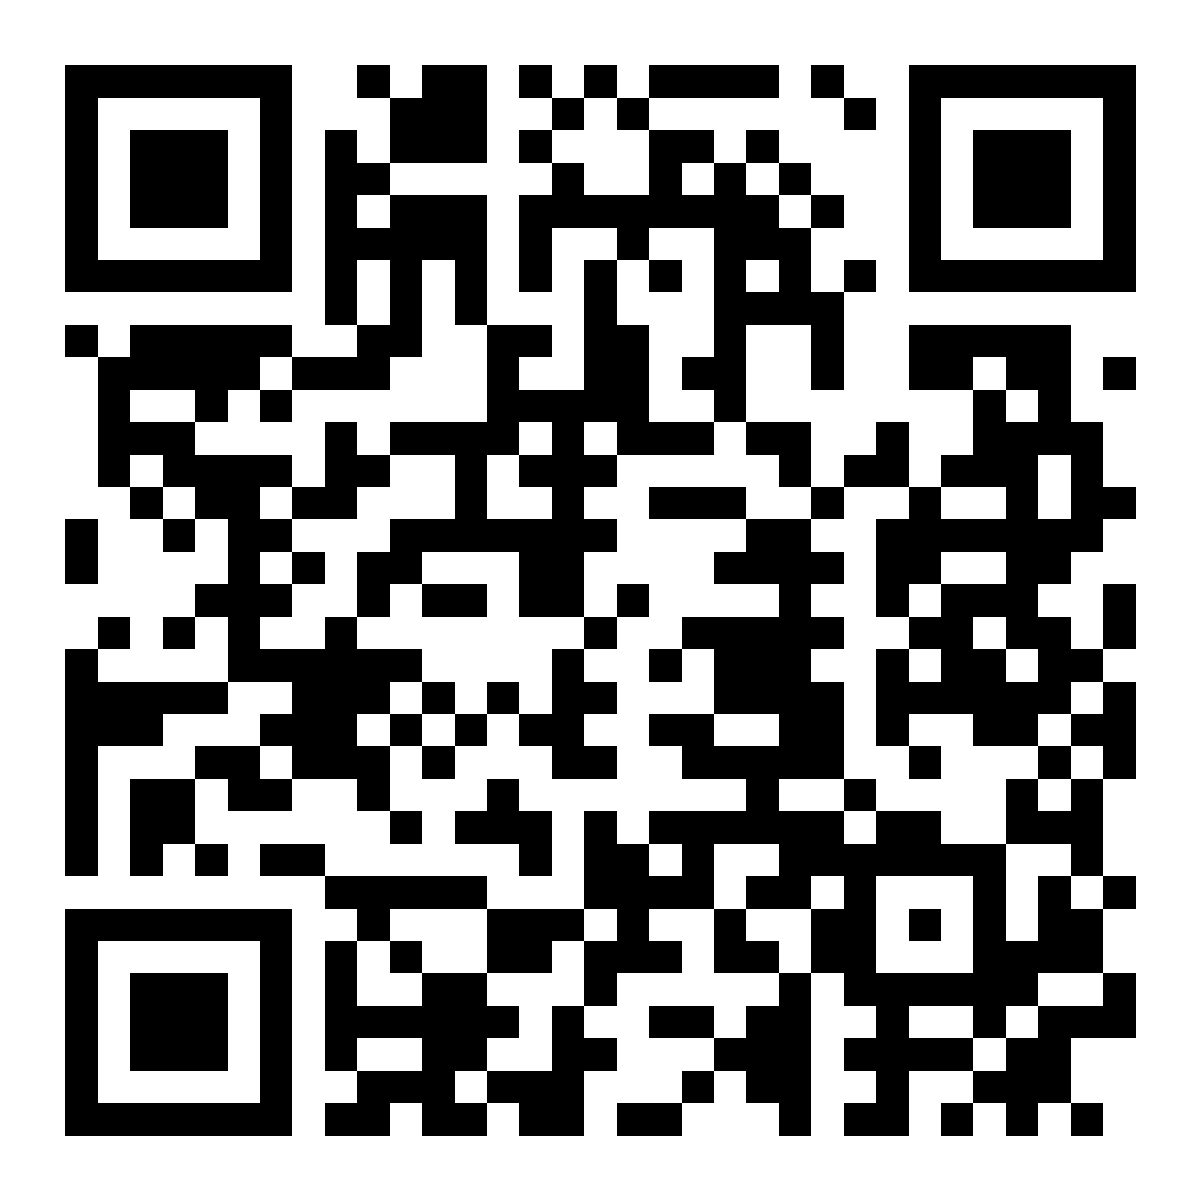
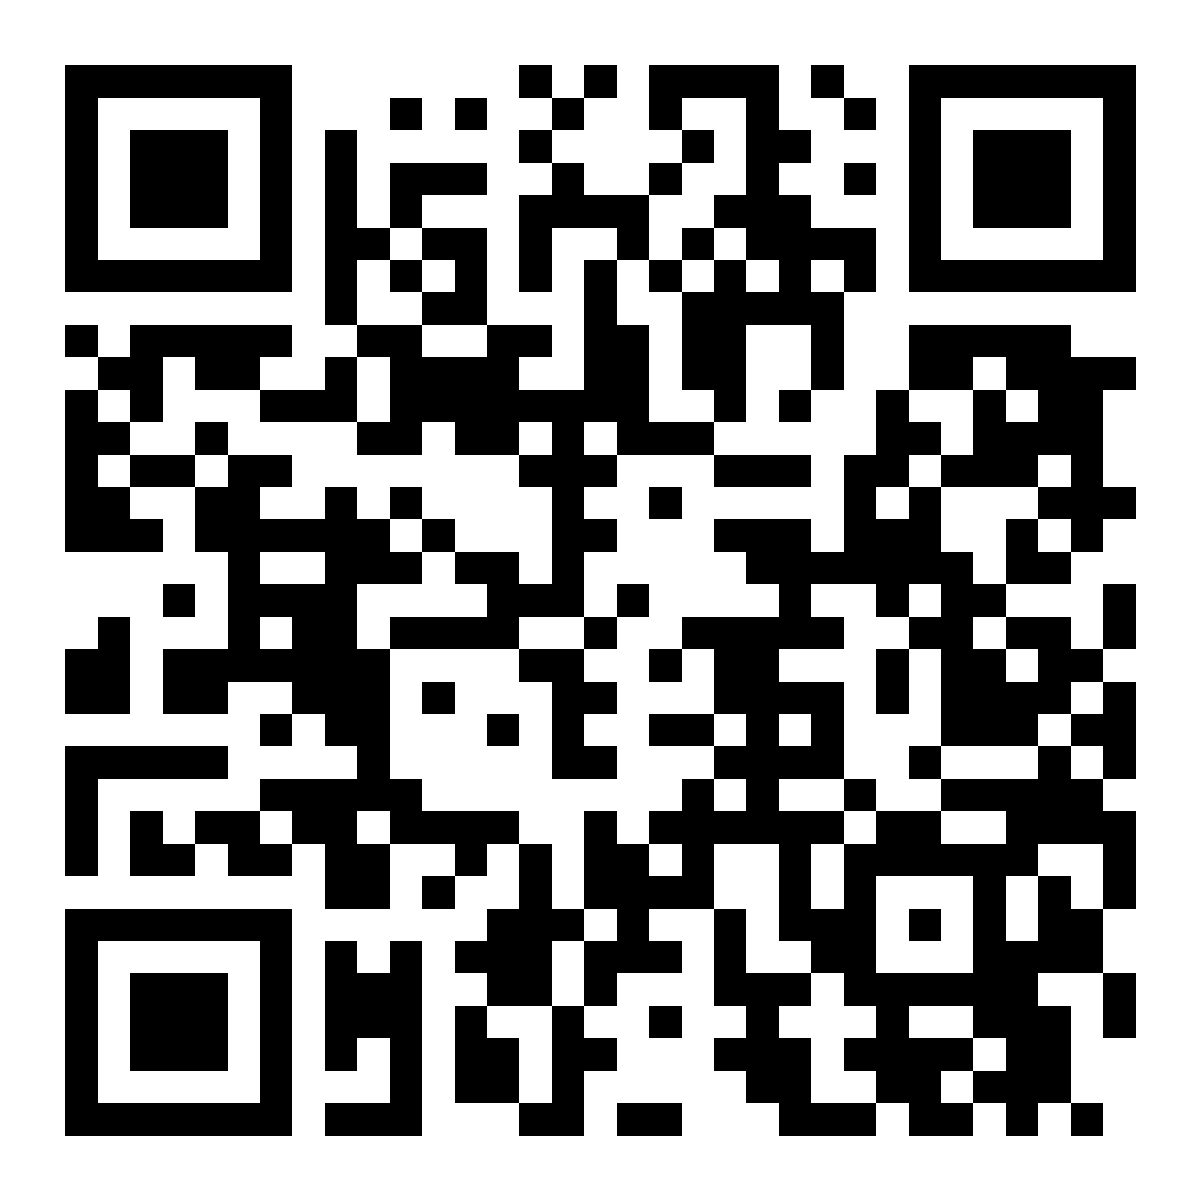
Version 1.0.0 : nouvelle adresse, les comptes suivent seuls
Le jeu répond sur croute-que-croute.tartinesauvage.fr et l'ancienne adresse reste en ligne. Dans un navigateur, l'ancienne adresse renvoie vers la nouvelle avec un code de liaison, les succès et les réglages. Une appli installée propose de copier le lien. QR codes régénérés.

diff --git a/public/js/app/account.js b/public/js/app/account.js
@@ -1,10 +1,12 @@
 import { clock } from "../shared/format.js";
+import { session, KEYS } from "../shared/store.js";
 import { ui, show, setText, markInvalid, renderControls, setLinking } from "./screens.js";
-import { net, on, registered, joinReady, refreshBoard, serverNow, linkWith, newLinkCode, logoutOthers, openGoogle, unlinkGoogle, reason, badInput } from "./api.js";
+import { net, on, hasPending, registered, joinReady, refreshBoard, serverNow, linkWith, newLinkCode, logoutOthers, openGoogle, unlinkGoogle, reason, badInput } from "./api.js";
 import { renderSettings, copy } from "./settings.js";
 import { resync } from "./profile.js";
 import { inAppNote } from "./inapp.js";
-import { googleBlocked } from "./install.js";
+import { googleBlocked, installMode } from "./install.js";
+import { moved, moveUrl } from "./move.js";
 
 const TICK_MS = 1000, RETRY_MS = 20000, QUIET = 4;
 /** @type {Record<string, string>} */
@@ -14,7 +16,10 @@ const GOOGLE_NOTES = {
   inconnu: "Aucun joueur n'est lié à ce compte Google. Utilise ton code, ou crée un pseudo.",
   erreur: "La connexion Google a échoué. Réessaie."
 };
+const MOVE_NOTE = "Le jeu change d'adresse. Copie le lien, ouvre-le dans ton navigateur, puis réinstalle le jeu : ton compte te suit.";
+const MOVE_CODE_MS = 9 * 60 * 1000;
 const OUT_ASK = "Tes autres appareils sortent du compte. Pour revenir, il leur faudra un nouveau code.";
+let leaving = false;
 /** @type {Timer} */
 let timer = null, until = Infinity, live = false, asked = 0, shown = "", /** @type {string | null} */ merging = null, /** @type {string | null} */ mergeInto = null, flow = 0, /** @type {string | null} */ waiting = null, /** @type {string | null} */ googleResult = null, opener = () => {}, idle = () => true;
 
@@ -307,6 +312,30 @@ function pickUp() {
   }
 }
 
+async function arrive() {
+  const code = session.get(KEYS.arrival);
+  if (!code || !net.board || !joinReady()) return;
+  session.set(KEYS.arrival, null);
+  try {
+    await linkWith(code);
+  } catch (e) {
+    waiting = code;
+    pickUp();
+  }
+}
+
+async function leave() {
+  if (leaving || !moved() || installMode() === "installed" || !net.board || !idle() || hasPending()) return;
+  if (!net.token && !joinReady()) return;
+  leaving = true;
+  const code = net.token ? await newLinkCode().then((r) => r.code, () => null) : null;
+  if (net.token && !code) {
+    leaving = false;
+    return;
+  }
+  location.replace(moveUrl(code));
+}
+
 function linkFromUrl() {
   const m = location.hash.match(/^#lier=([A-Za-z0-9-]{1,12})$/);
   if (!m) return;
@@ -345,6 +374,8 @@ ui.outBtn.addEventListener("click", () => {
 ui.outNo.addEventListener("click", () => askOut(false));
 ui.outYes.addEventListener("click", confirmOut);
 on("board", pickUp);
+on("board", arrive);
+on("board", leave);
 on("board", renderGoogle);
 on("board", showGoogleResult);
 ui.googleLogin.addEventListener("click", () => goGoogle(ui.googleLogin, false));
@@ -367,4 +398,20 @@ ui.linkForm.addEventListener("submit", /** @param {Event} e */ (e) => {
   e.preventDefault();
   connect(ui.linkInput.value);
 });
+if (moved() && installMode() === "installed") {
+  let link = moveUrl(null), asked = false;
+  const prepare = () => {
+    if (net.token) newLinkCode().then((r) => { link = moveUrl(r.code); }).catch(() => {});
+  };
+  on("board", () => {
+    if (asked) return;
+    asked = true;
+    prepare();
+  });
+  setInterval(prepare, MOVE_CODE_MS);
+  ui.inAppText.textContent = MOVE_NOTE;
+  ui.inApp.hidden = false;
+  ui.inAppCopy.addEventListener("click", () => copy(ui.inAppCopy, link, "Lien copié"));
+}
+
 window.addEventListener("hashchange", linkFromUrl);

diff --git a/public/sw.js b/public/sw.js
@@ -2,9 +2,9 @@ const CACHE = "croute-" + (new URL(self.location.href).searchParams.get("v") || 
 const SHELL = [
   "/", "/tokens.css", "/style.css", "/catalog.css", "/manifest.webmanifest", "/icons/icon-192.png", "/qr.svg",
   "/ecran", "/ecran.css", "/js/ecran/ecran.js",
-  "/js/version.js", "/js/errors.js", "/js/boot.js", "/js/shared/store.js", "/js/shared/format.js", "/js/shared/palette.js", "/js/shared/local.js", "/js/shared/timeout.js", "/js/shared/banner.js",
+  "/js/version.js", "/js/errors.js", "/js/arrive.js", "/js/boot.js", "/js/shared/store.js", "/js/shared/format.js", "/js/shared/palette.js", "/js/shared/local.js", "/js/shared/timeout.js", "/js/shared/banner.js",
   "/js/game/field.js", "/js/game/projectiles.js", "/js/game/attacks.js", "/js/game/solver.js", "/js/game/sim.js",
-  "/js/app/api.js", "/js/app/audio.js", "/js/app/catalog.js", "/js/app/input.js", "/js/app/sprites.js", "/js/app/scene.js", "/js/app/planets.js", "/js/app/screens.js", "/js/app/inapp.js", "/js/app/install.js", "/js/app/settings.js", "/js/app/party.js", "/js/app/achievements.js", "/js/app/toppings.js", "/js/app/gear.js", "/js/app/profile.js", "/js/app/account.js", "/js/app/guide.js", "/js/app/diag.js", "/js/app/loader.js", "/js/app/state.js", "/js/app/over.js", "/js/app/run.js", "/js/app/pages.js", "/js/app/main.js",
+  "/js/app/api.js", "/js/app/audio.js", "/js/app/catalog.js", "/js/app/input.js", "/js/app/sprites.js", "/js/app/scene.js", "/js/app/planets.js", "/js/app/screens.js", "/js/app/inapp.js", "/js/app/move.js", "/js/app/install.js", "/js/app/settings.js", "/js/app/party.js", "/js/app/achievements.js", "/js/app/toppings.js", "/js/app/gear.js", "/js/app/profile.js", "/js/app/account.js", "/js/app/guide.js", "/js/app/diag.js", "/js/app/loader.js", "/js/app/state.js", "/js/app/over.js", "/js/app/run.js", "/js/app/pages.js", "/js/app/main.js",
   "/js/app/art/auras.js", "/js/app/art/breads.js", "/js/app/art/cutlery.js", "/js/app/art/hats.js", "/js/app/art/kit.js", "/js/app/art/sides.js", "/js/app/art/spreads.js",
   "/js/app/sky/cans.js", "/js/app/sky/cheese.js", "/js/app/sky/classic.js", "/js/app/sky/egg.js", "/js/app/sky/kit.js", "/js/app/sky/melies.js", "/js/app/sky/music.js", "/js/app/sky/pancake.js", "/js/app/sky/pirate.js", "/js/app/sky/pumpkin.js", "/js/app/sky/santa.js", "/js/app/sky/toaster.js", "/js/app/sky/tung.js", "/js/app/sky/vehicles.js"
 ];

diff --git a/public/js/app/move.js b/public/js/app/move.js
@@ -1,0 +1,20 @@
+import { store, KEYS } from "../shared/store.js";
+
+export const OLD_HOST = "croute-que-croute.tartine-sauvage.workers.dev";
+export const HOME = "https://croute-que-croute.tartinesauvage.fr";
+
+/** @type {(keyof typeof KEYS)[]} */
+const KEPT = ["localBest", "myBests", "musicOff", "sfxOff", "musicVolume", "sfxVolume", "installAsked", "achievements", "toppings", "topping", "outfitSeen", "outfitAt", "gear", "side", "bread", "aura", "quality", "sensitivity", "mouseAim"];
+
+export const moved = () => location.hostname === OLD_HOST;
+
+/** @param {string | null} code */
+export function moveUrl(code) {
+  /** @type {Record<string, string>} */
+  const data = {};
+  for (const name of KEPT) {
+    const value = store.get(KEYS[name]);
+    if (value !== null) data[KEYS[name]] = value;
+  }
+  return `${HOME}/#demenage=${encodeURIComponent(JSON.stringify({ code, data }))}`;
+}

diff --git a/public/index.html b/public/index.html
@@ -6,6 +6,7 @@
 <meta name="theme-color" content="#0d0b24">
 <title>Croûte que Croûte</title>
 <script src="/js/errors.js"></script>
+<script src="/js/arrive.js"></script>
 <link rel="manifest" href="/manifest.webmanifest">
 <link rel="icon" href="/icons/icon.svg" type="image/svg+xml">
 <link rel="apple-touch-icon" href="/icons/apple-touch-icon.png">
@@ -46,6 +47,7 @@
 <link rel="modulepreload" href="/js/app/install.js">
 <link rel="modulepreload" href="/js/app/profile.js">
 <link rel="modulepreload" href="/js/app/account.js">
+<link rel="modulepreload" href="/js/app/move.js">
 <link rel="modulepreload" href="/js/app/loader.js">
 <link rel="modulepreload" href="/js/app/screens.js">
 <link rel="modulepreload" href="/js/game/attacks.js">

diff --git a/public/js/arrive.js b/public/js/arrive.js
@@ -1,0 +1,13 @@
+(() => {
+  const found = location.hash.match(/^#demenage=(.+)$/);
+  if (!found) return;
+  history.replaceState(null, "", location.pathname + location.search);
+  try {
+    if (localStorage.getItem("cv-token")) return;
+    const { code, data } = JSON.parse(decodeURIComponent(found[1]));
+    for (const key of Object.keys(data || {})) {
+      if (/^cv-[a-z-]+$/.test(key) && key !== "cv-token" && key !== "cv-client") localStorage.setItem(key, String(data[key]));
+    }
+    if (/^[A-Za-z0-9-]{1,12}$/.test(code || "")) sessionStorage.setItem("cv-arrivee", code);
+  } catch (e) {}
+})();

diff --git a/public/js/shared/store.js b/public/js/shared/store.js
@@ -24,7 +24,8 @@ export const KEYS = {
   sensitivity: "cv-sensibilite",
   mouseAim: "cv-souris",
   invincible: "cv-invincible",
-  diag: "cv-diag"
+  diag: "cv-diag",
+  arrival: "cv-arrivee"
 };
 
 /** @param {() => Storage} storage @returns {Store} */

diff --git a/public/js/app/api.js b/public/js/app/api.js
@@ -218,6 +218,8 @@ export function startRun(body) {
   });
 }
 
+export const hasPending = () => pendingScores().length > 0;
+
 /** @returns {Pending[]} */
 function pendingScores() {
   try {

diff --git a/README.md b/README.md
@@ -10,7 +10,8 @@ Source unique de connaissance du projet. Si le README et le code se contredisent
 
 ## Liens
 
-- Jeu : https://croute-que-croute.tartine-sauvage.workers.dev
+- Jeu : https://croute-que-croute.tartinesauvage.fr
+- Ancienne adresse, encore en ligne pour les applis installées : https://croute-que-croute.tartine-sauvage.workers.dev
 - Admin : `/admin`
 - Écran géant : `/ecran`, sur l'ordinateur branché à l'écran
 - Code : https://github.com/Affy657/croute-que-croute
@@ -323,6 +324,16 @@ Le robot d'équité dit si le jeu est faisable, pas s'il est bien dosé. Pour le
 - « Ce pseudo est déjà pris » renvoie vers « J'ai déjà un compte », et l'écran du code dit où le trouver.
 - Plus d'accès à l'ancien compte : l'admin réunit les deux.
 
+### Changement d'adresse
+
+Le stockage d'un navigateur et le cookie `cv_cle` sont liés à l'adresse. Pour passer de `croute-que-croute.tartine-sauvage.workers.dev` à `croute-que-croute.tartinesauvage.fr`, le compte fait le trajet tout seul (`move.js`, `arrive.js`).
+
+- Le même Worker répond sur les deux adresses (`workers_dev: true` et `routes` dans `wrangler.jsonc`). Sans `workers_dev`, l'ancienne s'éteindrait au déploiement.
+- Dans un navigateur, l'ancienne adresse crée un code de liaison et renvoie vers la nouvelle avec `#demenage=` : le code, les succès, la tenue et les réglages (`KEPT`), jamais la clé. Pas pendant une partie, pas avec un score en attente. Joueur connecté sans code : il reste, nouvel essai au classement suivant.
+- `arrive.js`, chargé avant le jeu, pose ces valeurs et efface l'adresse. Le téléphone se connecte seul avec le code, sans toucher « Connecter », et garde aussi sa session sur l'ancienne adresse. Un appareil déjà connecté ignore tout.
+- Une appli installée reste sur l'ancienne adresse et continue de marcher : elle ne peut pas changer d'adresse. L'accueil propose « Copier le lien » vers la nouvelle, avec un code renouvelé toutes les 9 min, puis il faut réinstaller.
+- `/ecran` et `/admin` ne suivent pas : les ouvrir sur la nouvelle adresse. Admin : `cle-admin.txt` la première fois.
+
 ### Connexion avec Google
 
 Désactivée en prod tant qu'on n'a pas le nom de domaine : sans les clés, les 3 routes répondent 404, les boutons restent cachés et un `#google=` tapé à la main est ignoré. La migration 0014 est appliquée, sa colonne et sa table restent vides.
@@ -332,7 +343,7 @@ Pour retrouver son compte sur un nouvel appareil sans code. Lier ou délier : Pa
 - Le serveur parle à Google lui-même (`src/routes/google.ts`) : `POST /api/google/start` note la demande dans `google_states` (10 min, un seul usage) et pose le cookie `cv_google`, puis Google renvoie sur `GET /api/google/retour`, qui compare le cookie, échange le code et revient sur `/#google=<résultat>`. Aucun script Google dans la page, la politique de sécurité ne change pas.
 - On demande `openid email`, parce que la documentation de Google l'exige, mais on ne garde que `sha256("google:" + sub)` dans `profiles.google_hash`. L'adresse e-mail n'est jamais enregistrée. La page `/confidentialite`, liée depuis Crédits, ne parle pas de Google tant que la connexion est coupée.
 - Bouton caché sans clés, dans les navigateurs d'applis (Google y refuse la connexion) et dans l'appli iPhone de l'écran d'accueil (la page de Google s'y ouvre dans un autre stockage : à vérifier sur un vrai iPhone avant de l'ouvrir).
-- Mise en route, à faire par Adrien : projet Google Cloud, écran de consentement « Externe » avec la page `/confidentialite`, identifiant OAuth « Application Web » avec comme URI de redirection `https://<adresse du jeu>/api/google/retour`, puis `npx wrangler secret put GOOGLE_CLIENT_ID` et `npx wrangler secret put GOOGLE_CLIENT_SECRET`. Migration 0014 à appliquer en ligne avant la mise en ligne. Google vérifie le domaine de l'adresse : `workers.dev` risque de bloquer, à faire de préférence avec tartinesauvage.fr.
+- Mise en route, à faire par Adrien : projet Google Cloud, écran de consentement « Externe » avec la page `/confidentialite`, identifiant OAuth « Application Web » avec comme URI de redirection `https://<adresse du jeu>/api/google/retour`, puis `npx wrangler secret put GOOGLE_CLIENT_ID` et `npx wrangler secret put GOOGLE_CLIENT_SECRET`. Migration 0014 à appliquer en ligne avant la mise en ligne. Google vérifie le domaine de l'adresse : À faire avec tartinesauvage.fr.
 - Pour l'activer : poser les clés, puis remettre dans `public/confidentialite.html` la section « Compte Google, si tu le lies » (texte dans le commit 99e2cb2).
 - Jamais essayée avec le vrai Google : les tests remplacent sa réponse.
 
@@ -369,7 +380,7 @@ Pour retrouver son compte sur un nouvel appareil sans code. Lier ou délier : Pa
 - Hauteur des planètes non arrondie : au pixel près, elles restaient immobiles puis sautaient.
 - Chrono réécrit au plus toutes les 30 ms (`DIGITS_MS` dans `run.js`) : chaque réécriture recalcule la page. Mesuré : de 99 à 50 ms par tranche de 5 s sur PC.
 - Calques vides masqués (`fx`, `party`) : sinon deux calques plein écran à assembler à chaque image.
-- `modulepreload` des 58 modules dans `index.html` : prêt en 3,9 s au lieu de 4,6 s avec 300 ms de latence.
+- `modulepreload` des 59 modules dans `index.html` : prêt en 3,9 s au lieu de 4,6 s avec 300 ms de latence.
 - iPhone d'avant iOS 15.4 : `Object.hasOwn`, appelé à chaque image, empêchait tout dessin. Remplacé, interdit par `shell.test.mjs`.
 - Essayés et pas gardés : tartine ou couverts en image, étoiles par paquets, chrono en `contain`, Rust (WebAssembly) : le dessin se fait dans le navigateur, et une vérification d'attaque prend 0,05 ms.
 
@@ -435,6 +446,7 @@ Pour retrouver son compte sur un nouvel appareil sans code. Lier ou délier : Pa
 | 0.47 | 01/11 | tenue qui suit le compte, rechargement si versions mélangées | 4 |
 | 0.48 | 02/11 | pluies espacées après une double pluie ou un hachoir | |
 | 0.49 | 03/11 | écran géant en direct, fin de soirée stricte, mur mis de côté | 8 |
+| 1.0 | 06/11 | sortie de bêta, adresse tartinesauvage.fr, comptes qui suivent seuls | |
 
 ## Erreurs des joueurs
 
@@ -559,6 +571,7 @@ Seulement en local (`shared/local.js`), téléphone sur le wifi compris.
 - `google` : empreinte sans e-mail, cookie, usage unique, 10 min, jeton refusé, délier.
 - `inapp` : navigateurs des applis (vrais user agents).
 - `link` : code de liaison, panne de base, réessai concurrent.
+- `move` : changement d'adresse, jamais la clé dans le lien, lien fabriqué ou illisible.
 - `offline` : record après coupure, pseudo gardé.
 - `palette` : `palette.js` et `tokens.css` identiques, feuilles sans valeur en dur.
 - `record` : classement tardif sans effet sur le record.
@@ -594,7 +607,7 @@ Seulement en local (`shared/local.js`), téléphone sur le wifi compris.
 
 ## À faire
 
-- Adresse : passer au nom de domaine tartinesauvage.fr, puis `npm run qr` (le QR code change). Il permettra aussi de freiner les requêtes avant le Worker (voir Triche et sécurité).
+- Freiner les requêtes avant le Worker avec une règle Cloudflare sur tartinesauvage.fr (voir Triche et sécurité). Tout le lieu partage souvent la même IP : choisir le seuil après une soirée mesurée.
 - Retirer la colonne `profiles.client_id`, plus écrite depuis le 02/11/2026, dans une migration d'une mise en ligne suivante : la retirer tout de suite casserait le retour à la version d'avant, qui l'écrit encore. `profiles.token` reste : obligatoire et unique, la retirer demande de reconstruire la table.
 - Activer la connexion avec Google une fois le nom de domaine en place (voir Appli et réseau).
 - Remplacer ou compléter la musique avec des morceaux des collègues DJ.
